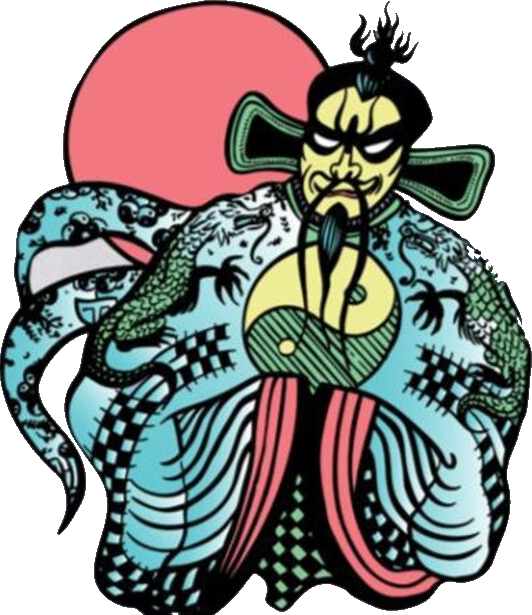
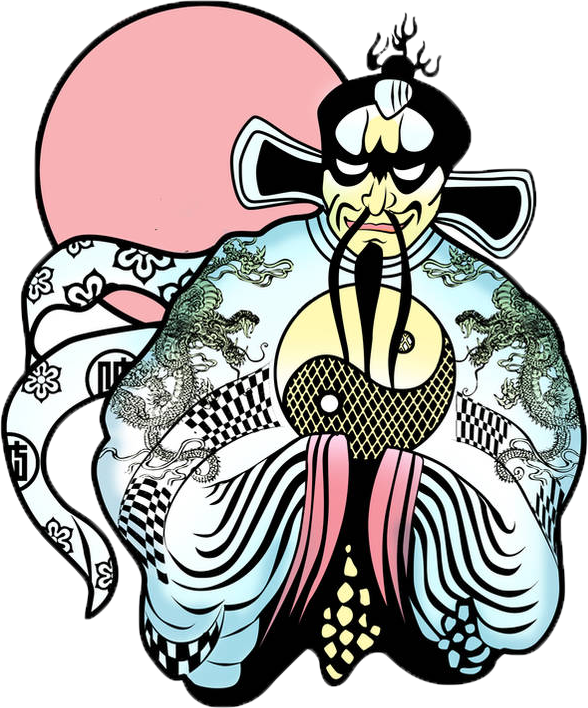
Jack: take the chest print from the flat concept art
The flat graphic on a transparent background is now the source, so the
emblem cutter just trims it to its own pixels; the colour key that pulled the
same design off a tank-top mock-up is gone rather than left to rot, and the
saturation/quantise that existed to fight that mock-up's fabric shading is
gone with it. The rig's torso takes the print at 48px, sharpened only.

diff --git a/tools/emblem_cut.py b/tools/emblem_cut.py
@@ -1,134 +1,39 @@
-"""Cut Jack's chest emblem out of the concept art.
+"""Cut Jack's chest emblem to a flat RGBA file the rig can paint from.
 
-The demon-in-the-pink-sun graphic only exists in the repo printed on a white
-tank-top mock-up (concept_art/fighters/jack_burton), so it has to be keyed off
-the fabric before it can be put on the puppet rig's chest.
+The source is the flat, high-resolution graphic in the concept folder: the
+emblem on its own, transparent background, no fabric behind it. That is the art
+the fighter is meant to be wearing, so all this does is trim it to its own
+pixels and save it where tools/jack_parts.py and tools/jack_cut.py look for it.
 
-A brightness key does not work: the shirt is shaded across its folds and has
-JPEG noise in it, so any threshold loose enough to keep the print's pale cyan
-leaves a grey rectangle of shirt behind it. What actually separates the two is
-colour, not lightness - every part of the print is either saturated (pink sun,
-cyan robe, jade dragons) or near-black ink, while every part of the shirt is
-neutral. The mask is built on that, then cleaned up:
+Earlier this tool keyed the same design off a tank-top mock-up, because that was
+the only copy in the repo; it needed a colour-based mask and a hole fill to get
+a clean edge. None of that is needed now that the flat art exists, and it is
+deliberately not kept: a key that is not used is a key that rots.
 
-* specks smaller than MIN_AREA are dropped, which takes the JPEG mottling out
-  of the shirt without touching the print;
-* light areas fully enclosed by the print are put back, so the pale panels
-  inside the graphic (the mask's face, the ear plates) stay solid.
-
-Output is art_src/chars/jackburton/ref/emblem.png, which tools/jack_parts.py
-picks up for the torso. Deterministic from the committed mock-up.
+Output: art_src/chars/jackburton/ref/emblem.png
 """
 
 import os
-from collections import deque
 
 from PIL import Image
 
 ROOT = os.path.dirname(os.path.dirname(os.path.abspath(__file__)))
 
 SRC = os.path.join(ROOT, "concept_art", "fighters", "jack_burton",
-                   "il_1588xN.2963586700_ro5b.jpg")
+                   "The emblem flat, on its own, at high resolution.png")
 OUT = os.path.join(ROOT, "art_src", "chars", "jackburton", "ref", "emblem.png")
-
-# The print, in pixels of the 1588x1588 mock-up. Generous on every side; the
-# alpha bounding box trims it afterwards.
-BOX = (498, 488, 1068, 1122)
-
-SAT_MIN = 30        # a pixel this colourful is print, whatever its lightness
-INK_MAX = 110       # a pixel this dark is line work, whatever its colour
-MIN_AREA = 400      # connected specks smaller than this are shirt mottling
-
-
-def _mask(px, w, h):
-    """Print or shirt, per pixel, on colour rather than brightness."""
-    keep = bytearray(w * h)
-    for y in range(h):
-        row = y * w
-        for x in range(w):
-            r, g, b = px[x, y]
-            if max(r, g, b) - min(r, g, b) >= SAT_MIN or max(r, g, b) <= INK_MAX:
-                keep[row + x] = 1
-    return keep
-
-
-def _drop_specks(keep, w, h):
-    """Zero every connected run of keep-pixels below MIN_AREA."""
-    seen = bytearray(w * h)
-    for start in range(w * h):
-        if not keep[start] or seen[start]:
-            continue
-        run, dq = [], deque([start])
-        seen[start] = 1
-        while dq:
-            i = dq.popleft()
-            run.append(i)
-            y, x = divmod(i, w)
-            for nx, ny in ((x - 1, y), (x + 1, y), (x, y - 1), (x, y + 1)):
-                if 0 <= nx < w and 0 <= ny < h:
-                    j = ny * w + nx
-                    if keep[j] and not seen[j]:
-                        seen[j] = 1
-                        dq.append(j)
-        if len(run) < MIN_AREA:
-            for i in run:
-                keep[i] = 0
-    return keep
-
-
-def _fill_enclosed(keep, w, h):
-    """Put back light areas the print closes around: reach them from the
-    border; anything the border cannot reach is inside the graphic."""
-    outside = bytearray(w * h)
-    dq = deque()
-    for x in range(w):
-        for y in (0, h - 1):
-            i = y * w + x
-            if not keep[i] and not outside[i]:
-                outside[i] = 1
-                dq.append(i)
-    for y in range(h):
-        for x in (0, w - 1):
-            i = y * w + x
-            if not keep[i] and not outside[i]:
-                outside[i] = 1
-                dq.append(i)
-    while dq:
-        i = dq.popleft()
-        y, x = divmod(i, w)
-        for nx, ny in ((x - 1, y), (x + 1, y), (x, y - 1), (x, y + 1)):
-            if 0 <= nx < w and 0 <= ny < h:
-                j = ny * w + nx
-                if not keep[j] and not outside[j]:
-                    outside[j] = 1
-                    dq.append(j)
-    for i in range(w * h):
-        if not outside[i]:
-            keep[i] = 1
-    return keep
 
 
 def cut():
-    src = Image.open(SRC).convert("RGB").crop(BOX)
-    w, h = src.size
-    px = src.load()
-    keep = _fill_enclosed(_drop_specks(_mask(px, w, h), w, h), w, h)
-    out = src.convert("RGBA")
-    op = out.load()
-    for y in range(h):
-        row = y * w
-        for x in range(w):
-            if not keep[row + x]:
-                op[x, y] = (0, 0, 0, 0)
-    box = out.getbbox()
+    art = Image.open(SRC).convert("RGBA")
+    box = art.getchannel("A").getbbox()
     if box:
-        out = out.crop(box)
+        art = art.crop(box)
     os.makedirs(os.path.dirname(OUT), exist_ok=True)
-    out.save(OUT)
-    return out
+    art.save(OUT)
+    return art
 
 
 if __name__ == "__main__":
     im = cut()
-    print(f"  emblem: {im.width}x{im.height} cut from "
-          f"{os.path.relpath(SRC, ROOT)} -> {os.path.relpath(OUT, ROOT)}")
+    print(f"  emblem: {im.width}x{im.height} -> {os.path.relpath(OUT, ROOT)}")

diff --git a/tools/jack_parts.py b/tools/jack_parts.py
@@ -118,15 +118,13 @@ def _emblem_ref(width):
         art = art.crop(box)
     height = max(6, int(round(width * art.height / max(1, art.width))))
     small = art.convert("RGBa").resize((width, height), Image.LANCZOS).convert("RGBA")
-    # The only source is a JPEG of the print on fabric, so the reduction comes
-    # out grey and soft: the shirt's own shading is baked into the colours and
-    # the ink lines blur into the fills. Put the saturation and the line back
-    # where the flat art has them - at 48px the mark is a smudge otherwise.
-    rgb = ImageEnhance.Color(small.convert("RGB")).enhance(1.35)
-    rgb = ImageEnhance.Contrast(rgb).enhance(1.08)
-    rgb = rgb.filter(ImageFilter.UnsharpMask(radius=1.0, percent=80, threshold=0))
-    out = rgb.quantize(colors=12, method=Image.MEDIANCUT,
-                       dither=Image.NONE).convert("RGB").convert("RGBA")
+    # The flat art already has the ink and the colour; the only thing the drop to
+    # 48px costs is edge definition, so it is sharpened and nothing else. (The
+    # saturation and quantise that used to be here were for keying the print off
+    # a tank-top mock-up, where the fabric shading greyed it out.)
+    rgb = small.convert("RGB").filter(
+        ImageFilter.UnsharpMask(radius=0.9, percent=70, threshold=0))
+    out = rgb.convert("RGBA")
     out.putalpha(small.getchannel("A"))
     return out
 
